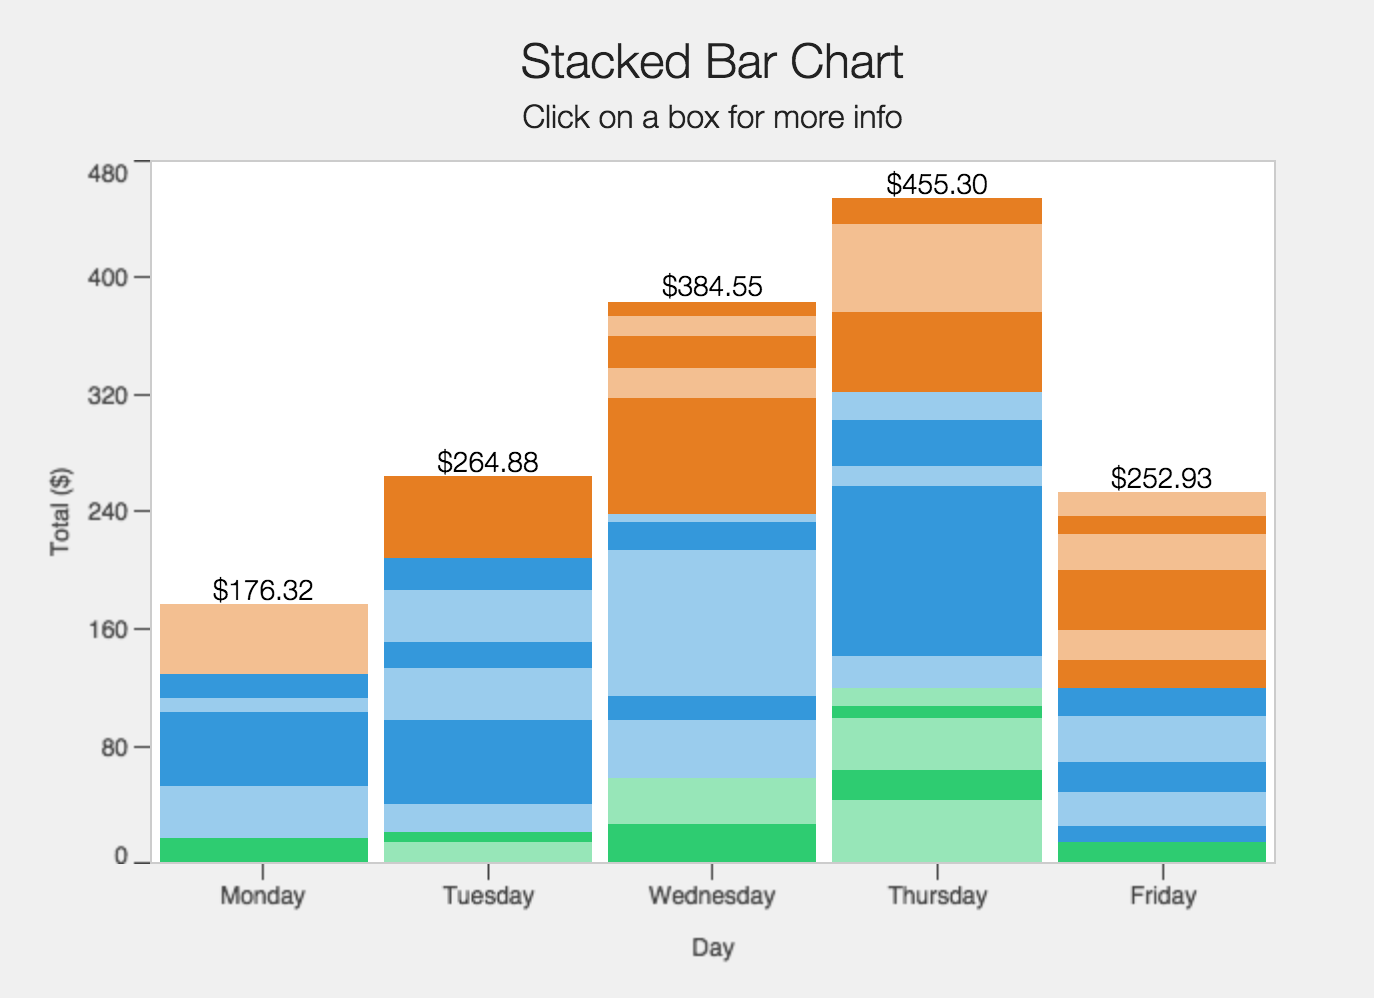
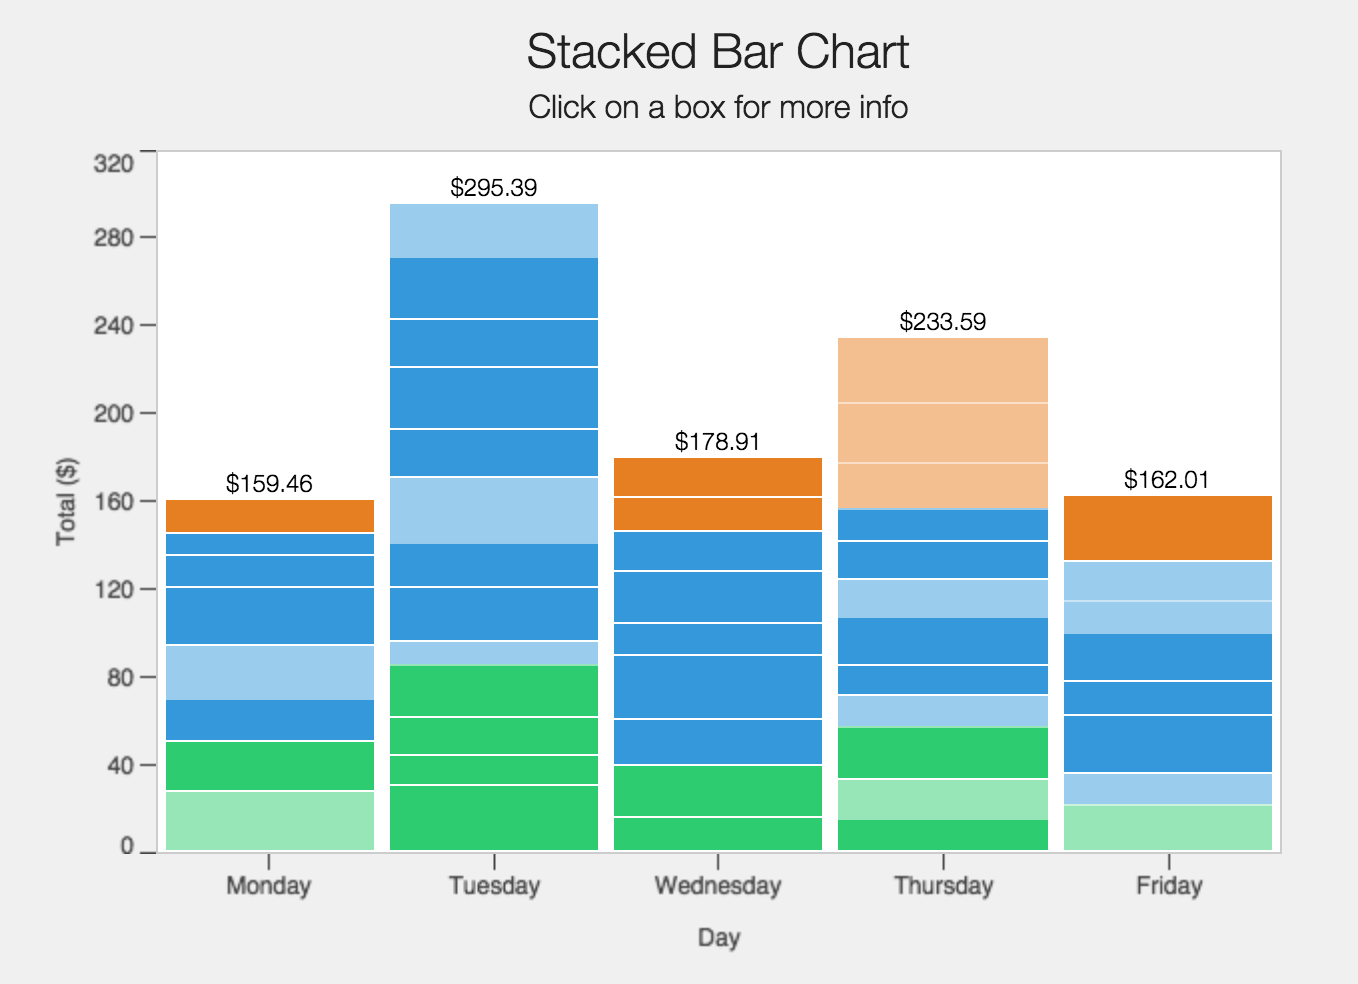
added back white dividers to stack bar

diff --git a/build/tinyplot.min.css b/build/tinyplot.min.css
@@ -1,1 +1,1 @@
-.tinyplot-chart{position:relative;min-height:400px;font-family:"Helvetica Neue Light",HelveticaNeue-Light,"Helvetica Neue",Calibri,Helvetica,Arial,sans-serif}.tinyplot-chart>div{position:absolute}.tinyplot-chart canvas{width:100%;height:100%}.tinyplot-chart .text{color:#222}.tinyplot-chart .title-area{position:absolute;left:64px;right:64px;height:64px}.tinyplot-chart .title-area .title{text-align:center;font-size:24px;color:#222;margin-bottom:4px}.tinyplot-chart .title-area .subtitle{text-align:center;font-size:16px;color:#222}.tinyplot-chart .y-axis{width:64px;top:64px;bottom:64px;z-index:2}.tinyplot-chart .data,.tinyplot-chart .data-intercept{left:64px;right:64px;top:64px;bottom:64px;z-index:1}.tinyplot-chart .data{background:#fff;overflow:hidden;border:1px solid #ccc}.tinyplot-chart .x-axis{height:64px;left:64px;right:64px;bottom:0;z-index:2}.tinyplot-chart.timeseries .cursor{position:absolute;top:0;bottom:0;left:20px;display:none;text-align:center;width:200px}.tinyplot-chart.timeseries .cursor .bar{height:100%;margin:0 auto;width:0}.tinyplot-chart.timeseries .cursor .info{background:#fff;border:1px solid #ccc;box-shadow:0 1px 8px rgba(0,0,0,.1);padding:2px 8px;position:absolute;top:8px;width:100%;box-sizing:border-box}.tinyplot-chart.timeseries .cursor .info>div{font-size:12px;padding:2px 0}.tinyplot-chart.stacked-bar{min-height:400px;position:relative;-webkit-transform:translateZ(0)}.tinyplot-chart.stacked-bar .data{position:absolute;left:64px;right:64px;top:64px;bottom:64px;background:#fff}.tinyplot-chart.stacked-bar .data .column{float:left;height:100%;position:relative;vertical-align:bottom}.tinyplot-chart.stacked-bar .data .column a.box{position:absolute;display:block;border-top:1px solid #fff;left:4px;right:4px;-webkit-transform:translateZ(0);cursor:pointer}.tinyplot-chart.stacked-bar .data .column .total{text-align:center;font-size:14px;position:absolute;left:4px;right:4px;height:16px;-webkit-transform:translateZ(0);overflow:hidden}
+.tinyplot-chart{position:relative;min-height:400px;font-family:"Helvetica Neue Light",HelveticaNeue-Light,"Helvetica Neue",Calibri,Helvetica,Arial,sans-serif}.tinyplot-chart>div{position:absolute}.tinyplot-chart canvas{width:100%;height:100%}.tinyplot-chart .text{color:#222}.tinyplot-chart .title-area{position:absolute;left:64px;right:64px;height:64px}.tinyplot-chart .title-area .title{text-align:center;font-size:24px;color:#222;margin-bottom:4px}.tinyplot-chart .title-area .subtitle{text-align:center;font-size:16px;color:#222}.tinyplot-chart .y-axis{width:64px;top:64px;bottom:64px;z-index:2}.tinyplot-chart .data,.tinyplot-chart .data-intercept{left:64px;right:64px;top:64px;bottom:64px;z-index:1}.tinyplot-chart .data{background:#fff;overflow:hidden;border:1px solid #ccc}.tinyplot-chart .data.no-canvas{overflow:visible}.tinyplot-chart .x-axis{height:64px;left:64px;right:64px;bottom:0;z-index:2}.tinyplot-chart.timeseries .cursor{position:absolute;top:0;bottom:0;left:20px;display:none;text-align:center;width:200px}.tinyplot-chart.timeseries .cursor .bar{height:100%;margin:0 auto;width:0}.tinyplot-chart.timeseries .cursor .info{background:#fff;border:1px solid #ccc;box-shadow:0 1px 8px rgba(0,0,0,.1);padding:2px 8px;position:absolute;top:8px;width:100%;box-sizing:border-box}.tinyplot-chart.timeseries .cursor .info>div{font-size:12px;padding:2px 0}.tinyplot-chart.stacked-bar{min-height:400px;position:relative;-webkit-transform:translateZ(0)}.tinyplot-chart.stacked-bar .data{position:absolute;left:64px;right:64px;top:64px;bottom:64px;background:#fff}.tinyplot-chart.stacked-bar .data .column{float:left;height:100%;position:relative;vertical-align:bottom}.tinyplot-chart.stacked-bar .data .column a.box{position:absolute;display:block;border-bottom:1px solid #fff;left:4px;right:4px;-webkit-transform:translateZ(0);cursor:pointer}.tinyplot-chart.stacked-bar .data .column .total{text-align:center;font-size:12px;position:absolute;left:4px;right:4px;padding:1px;height:16px;-webkit-transform:translateZ(0);overflow:hidden}

diff --git a/css/tinyplot.sass b/css/tinyplot.sass
@@ -1,14 +1,14 @@
 
-$axis-size: 64px
-$min-chart-height: 400px
-$pad: 4px
-$axis-color: #ccc
-$text-color: #222
+$tinyplot-axis-size: 64px
+$tinyplot-min-chart-height: 400px
+$tinyplot-pad: 4px
+$tinyplot-axis-color: #ccc
+$tinyplot-text-color: #222
 
 
 .tinyplot-chart
 	position: relative
-	min-height: $min-chart-height
+	min-height: $tinyplot-min-chart-height
 	font-family: "Helvetica Neue Light", "HelveticaNeue-Light", "Helvetica Neue", Calibri, Helvetica, Arial, sans-serif
 	> div
 		position: absolute
@@ -16,40 +16,42 @@ $text-color: #222
 		width: 100%
 		height: 100%
 	.text
-		color: $text-color
+		color: $tinyplot-text-color
 	.title-area
 		position: absolute
-		left: $axis-size
-		right: $axis-size
-		height: $axis-size
+		left: $tinyplot-axis-size
+		right: $tinyplot-axis-size
+		height: $tinyplot-axis-size
 		.title
 			text-align: center
 			font-size: 24px
-			color: $text-color
+			color: $tinyplot-text-color
 			margin-bottom: 4px
 		.subtitle
 			text-align: center
 			font-size: 16px
-			color: $text-color
+			color: $tinyplot-text-color
 	.y-axis
-		width: $axis-size
-		top: $axis-size
-		bottom: $axis-size
+		width: $tinyplot-axis-size
+		top: $tinyplot-axis-size
+		bottom: $tinyplot-axis-size
 		z-index: 2
 	.data, .data-intercept
-		left: $axis-size
-		right: $axis-size
-		top: $axis-size
-		bottom: $axis-size
+		left: $tinyplot-axis-size
+		right: $tinyplot-axis-size
+		top: $tinyplot-axis-size
+		bottom: $tinyplot-axis-size
 		z-index: 1
 	.data
 		background: #fff
 		overflow: hidden
-		border: 1px solid $axis-color
+		border: 1px solid $tinyplot-axis-color
+	.data.no-canvas
+		overflow: visible
 	.x-axis
-		height: $axis-size
-		left: $axis-size
-		right: $axis-size
+		height: $tinyplot-axis-size
+		left: $tinyplot-axis-size
+		right: $tinyplot-axis-size
 		bottom: 0
 		z-index: 2
 
@@ -84,15 +86,15 @@ $text-color: #222
 
 // Stacked Bar
 .tinyplot-chart.stacked-bar
-	min-height: $min-chart-height
+	min-height: $tinyplot-min-chart-height
 	position: relative
 	-webkit-transform: translateZ(0)
 	.data
 		position: absolute
-		left: $axis-size
-		right: $axis-size
-		top: $axis-size
-		bottom: $axis-size
+		left: $tinyplot-axis-size
+		right: $tinyplot-axis-size
+		top: $tinyplot-axis-size
+		bottom: $tinyplot-axis-size
 		background: #fff
 		.column
 			float: left
@@ -102,17 +104,18 @@ $text-color: #222
 			a.box
 				position: absolute
 				display: block
-				border-top: 1px solid #fff
-				left: $pad
-				right: $pad
+				border-bottom: 1px solid #fff
+				left: $tinyplot-pad
+				right: $tinyplot-pad
 				-webkit-transform: translateZ(0)
 				cursor: pointer
 			.total
 				text-align: center
-				font-size: 14px
+				font-size: 12px
 				position: absolute
-				left: $pad
-				right: $pad
+				left: $tinyplot-pad
+				right: $tinyplot-pad
+				padding: 1px
 				height: 16px
 				-webkit-transform: translateZ(0)
 				overflow: hidden

diff --git a/css/tinyplot.css b/css/tinyplot.css
@@ -38,6 +38,8 @@
     background: #fff;
     overflow: hidden;
     border: 1px solid #ccc; }
+  .tinyplot-chart .data.no-canvas {
+    overflow: visible; }
   .tinyplot-chart .x-axis {
     height: 64px;
     left: 64px;
@@ -89,17 +91,18 @@
       .tinyplot-chart.stacked-bar .data .column a.box {
         position: absolute;
         display: block;
-        border-top: 1px solid #fff;
+        border-bottom: 1px solid #fff;
         left: 4px;
         right: 4px;
         -webkit-transform: translateZ(0);
         cursor: pointer; }
       .tinyplot-chart.stacked-bar .data .column .total {
         text-align: center;
-        font-size: 14px;
+        font-size: 12px;
         position: absolute;
         left: 4px;
         right: 4px;
+        padding: 1px;
         height: 16px;
         -webkit-transform: translateZ(0);
         overflow: hidden; }

diff --git a/build/tinyplot.css b/build/tinyplot.css
@@ -48,6 +48,9 @@
   overflow: hidden;
   border: 1px solid #ccc;
 }
+.tinyplot-chart .data.no-canvas {
+  overflow: visible;
+}
 .tinyplot-chart .x-axis {
   height: 64px;
   left: 64px;
@@ -107,7 +110,7 @@
 .tinyplot-chart.stacked-bar .data .column a.box {
   position: absolute;
   display: block;
-  border-top: 1px solid #fff;
+  border-bottom: 1px solid #fff;
   left: 4px;
   right: 4px;
   -webkit-transform: translateZ(0);
@@ -115,10 +118,11 @@
 }
 .tinyplot-chart.stacked-bar .data .column .total {
   text-align: center;
-  font-size: 14px;
+  font-size: 12px;
   position: absolute;
   left: 4px;
   right: 4px;
+  padding: 1px;
   height: 16px;
   -webkit-transform: translateZ(0);
   overflow: hidden;

diff --git a/demo/index.html b/demo/index.html
@@ -71,13 +71,13 @@
         barData = []
         var dows = ['Monday', 'Tuesday', 'Wednesday', 'Thursday', 'Friday']
         var groups = ['green', 'blue', 'orange']
-        N = 100
+        N = 50
         for (i=0; i<N; i++) {
             barData.push({
                 dow: randomSample(dows),
                 group: randomSample(groups),
-                total: Math.random()*20 + 5,
-                opacity: Math.random()>0.5 ? 1.0 : 0.5
+                total: Math.random()*20 + 10,
+                opacity: Math.random()>0.3 ? 1.0 : 0.5
             })
         }
 

diff --git a/README.md b/README.md
@@ -101,14 +101,17 @@ This is like a regular bar chart, except that it can display more than two dimen
 In addition to the common options, the stacked bar chart takes the following additional options:
 
 * xOrder: an array containing the exact possible values and order of the x axis
-* groupField: name of the field by which to group and color bars
+* groupField: name of the field by which to group and color boxes
 * groupOrder: an array containing the exact possible values and order of the grouped field
 * groupColors: object mapping groupField values to CSS colors
-* opacityField: name of field that contains the opacity of each bar (optional)
+* opacityField: name of field that contains the opacity of each box (optional)
+* onClick: a function that will get called when a box is clicked (takes the data row as an input)
 
 Example call:
 
 ```javascript
+var dows = ['Monday', 'Tuesday', 'Wednesday', 'Thursday', 'Friday']
+var groups = ['green', 'blue', 'orange']
 var chart = new tinyplot.StackedBarChart('#stacked-bar', barData, {
     xField: 'dow',
     xOrder: dows,
